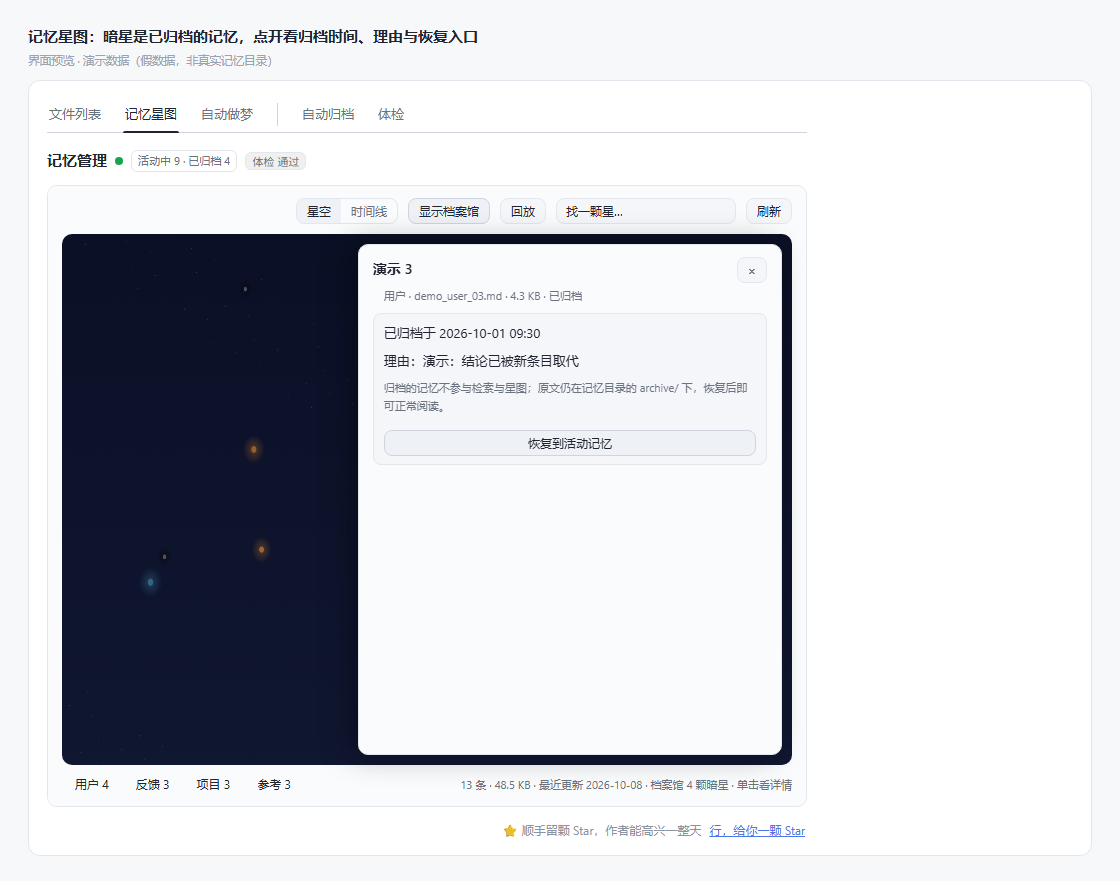
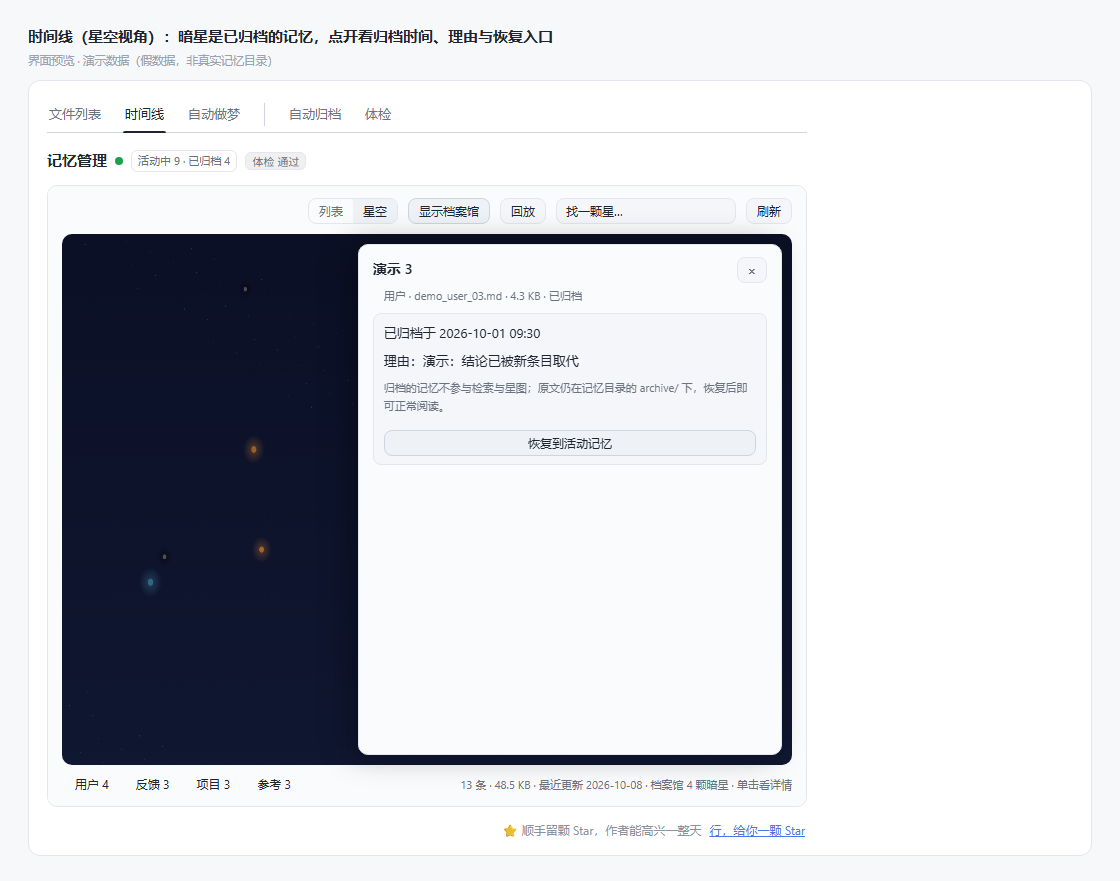
release: v2.4.1 —— 页签「记忆星图」改名「时间线」，点开先看见列表
- 页签「记忆星图」→「时间线」（中英同步：Star map → Timeline）。
- 默认视角改为列表（按更新时间倒序）；星空降为右上角可选视角。
- 内部视角按钮改「列表 | 星空」：页签已经叫「时间线」，里面再放一个同名按钮
  就成了「时间线 ▸ 时间线 | 星空」，读起来像 bug；「列表」也更准。
- 依赖画布的 5 组渲染用例各加一步「先点星空」。2.3.1 当时不敢改默认值，
  理由正是「8 条渲染断言失去前提」—— 正确解法是给它们一条切视角的入口，
  而不是让默认值迁就测试。默认视角是产品决定，依赖它的前提就该写出来。
- 三屏界面快照 files-list / audit 重生成：唯一变化是页签文字那一项。
- 展示图重出，并**新增一张「默认视角（列表）」**：README 主图现在是打开标签
  第一眼看到的那一屏，星空版退为「切过去之后」。拿星空版当默认界面展示，
  是拿一个要用户点一下才出现的东西冒充入口 —— 交付前差点就这样发出去。
  该屏在出图前先断言「没有画布且有条目列表」，图配不上说明就直接失败。
- 顺手脱敏：README 中英的私有机器代号、一份审查报告里的私人署名。

npm test: 4453 passed / 0 failed

diff --git a/lib/client.js b/lib/client.js
@@ -1128,10 +1128,12 @@ const StarmapRuntime = (function (require, _react) {
 			const busyS = react.useState(false);
 			const busy = busyS[0];
 			const setBusy = busyS[1];
-			// 2.3.1：默认仍是「星空」—— 它是这个功能的招牌视觉（README 封面图），
-			// 而且改成 timeline 会让 8 条「画布真的画出来了 / 点得中暗星」的渲染断言失去
-			// 前提（那些只在空间视角成立）。变的是**按钮顺序**：时间线在前。
-			const viewS = react.useState("sky");
+			// 2.4.1：默认视角是**时间线**。产品要求「点开这个标签先看见按时间排的条目」——
+			// 星空是这个功能的可选视角，不是入口。原先默认星空，理由是它更适合当招牌视觉；
+			// 但一个叫「时间线」的标签第一屏却是一张星图，等于让人先猜这里是什么。
+			// 代价：8 条「画布真的画出来了 / 点得中暗星」的渲染断言失去前提，
+			// 所以 client-render-test 里补了一条切视角的入口（先点「星空」再断言）。
+			const viewS = react.useState("timeline");
 			const viewMode = viewS[0];
 			const setViewMode = viewS[1];
 			const emptySkyS = react.useState(false);
@@ -1623,15 +1625,16 @@ const StarmapRuntime = (function (require, _react) {
 			}
 
 			return h("div", { className: "smap-card" },
-				// 卡片里不再重复「记忆星图 / sage-mem memory」这一行 —— 标题已经在面板顶部
+				// 卡片里不再重复标题那一行 —— 标签本身叫「时间线」，标题已经在面板顶部
 				// 那条共用头部带里（「我在哪」），这里只留控件，少一行噪音。
 				h("div", { className: "smap-head" },
 					h("span", { className: "smap-spacer" }),
-					// 2.3.1：时间线在前（默认视角），星空在后 —— 与默认值一致，别让人点开
-					// 一个高亮的按钮发现它不在第一位。
+					// 2.4.1：内部视角按钮叫「列表 | 星空」—— 标签已经叫「时间线」，
+					// 里面再放一个「时间线」按钮就成了「时间线 ▸ 时间线 | 星空」，读起来像 bug。
+					// 「列表」也更准：它就是按更新时间倒序的条目列表。
 					h("span", { className: "smap-viewtoggle" },
-						h("button", { className: "smap-vt-btn" + (viewMode === "timeline" ? " on" : ""), onClick: () => setViewMode("timeline"), title: "时间视角：最近更新在前" }, "时间线"),
-						h("button", { className: "smap-vt-btn" + (viewMode === "sky" ? " on" : ""), onClick: () => setViewMode("sky"), title: "空间视角：星座分布" }, "星空")),
+						h("button", { className: "smap-vt-btn" + (viewMode === "timeline" ? " on" : ""), onClick: () => setViewMode("timeline"), title: "列表视角：最近更新在前" }, "列表"),
+						h("button", { className: "smap-vt-btn" + (viewMode === "sky" ? " on" : ""), onClick: () => setViewMode("sky"), title: "星空视角：星座分布" }, "星空")),
 					// 档案馆开关：默认开。关掉只是本地不再画暗星，不重新取数。
 					// 只留文字，不挂数字（计数归脚注的「档案馆 N 颗暗星」）；开/关靠 on 态
 					// 与 aria-pressed 的样式差，别让人猜现在是开还是关。
@@ -3834,7 +3837,7 @@ h("span", { key: "sep", className: "smem-actions-sep", "aria-hidden": "true" }),
 			"sidebar.label": "记忆管理",
 
 			"tab.files": "文件列表",
-			"tab.star": "记忆星图",
+			"tab.star": "时间线",
 			"tab.autodream": "自动做梦",
 			"tab.archive": "自动归档",
 			"tab.audit": "体检",
@@ -4317,7 +4320,7 @@ h("span", { key: "sep", className: "smem-actions-sep", "aria-hidden": "true" }),
 			"sidebar.label": "Memory management",
 
 			"tab.files": "Files",
-			"tab.star": "Star map",
+			"tab.star": "Timeline",
 			"tab.autodream": "Autodream",
 			"tab.archive": "Auto-archive",
 			"tab.audit": "Audit",

diff --git a/client/13-starmap-panel.js b/client/13-starmap-panel.js
@@ -45,10 +45,12 @@
 			const busyS = react.useState(false);
 			const busy = busyS[0];
 			const setBusy = busyS[1];
-			// 2.3.1：默认仍是「星空」—— 它是这个功能的招牌视觉（README 封面图），
-			// 而且改成 timeline 会让 8 条「画布真的画出来了 / 点得中暗星」的渲染断言失去
-			// 前提（那些只在空间视角成立）。变的是**按钮顺序**：时间线在前。
-			const viewS = react.useState("sky");
+			// 2.4.1：默认视角是**时间线**。产品要求「点开这个标签先看见按时间排的条目」——
+			// 星空是这个功能的可选视角，不是入口。原先默认星空，理由是它更适合当招牌视觉；
+			// 但一个叫「时间线」的标签第一屏却是一张星图，等于让人先猜这里是什么。
+			// 代价：8 条「画布真的画出来了 / 点得中暗星」的渲染断言失去前提，
+			// 所以 client-render-test 里补了一条切视角的入口（先点「星空」再断言）。
+			const viewS = react.useState("timeline");
 			const viewMode = viewS[0];
 			const setViewMode = viewS[1];
 			const emptySkyS = react.useState(false);
@@ -540,15 +542,16 @@
 			}
 
 			return h("div", { className: "smap-card" },
-				// 卡片里不再重复「记忆星图 / sage-mem memory」这一行 —— 标题已经在面板顶部
+				// 卡片里不再重复标题那一行 —— 标签本身叫「时间线」，标题已经在面板顶部
 				// 那条共用头部带里（「我在哪」），这里只留控件，少一行噪音。
 				h("div", { className: "smap-head" },
 					h("span", { className: "smap-spacer" }),
-					// 2.3.1：时间线在前（默认视角），星空在后 —— 与默认值一致，别让人点开
-					// 一个高亮的按钮发现它不在第一位。
+					// 2.4.1：内部视角按钮叫「列表 | 星空」—— 标签已经叫「时间线」，
+					// 里面再放一个「时间线」按钮就成了「时间线 ▸ 时间线 | 星空」，读起来像 bug。
+					// 「列表」也更准：它就是按更新时间倒序的条目列表。
 					h("span", { className: "smap-viewtoggle" },
-						h("button", { className: "smap-vt-btn" + (viewMode === "timeline" ? " on" : ""), onClick: () => setViewMode("timeline"), title: "时间视角：最近更新在前" }, "时间线"),
-						h("button", { className: "smap-vt-btn" + (viewMode === "sky" ? " on" : ""), onClick: () => setViewMode("sky"), title: "空间视角：星座分布" }, "星空")),
+						h("button", { className: "smap-vt-btn" + (viewMode === "timeline" ? " on" : ""), onClick: () => setViewMode("timeline"), title: "列表视角：最近更新在前" }, "列表"),
+						h("button", { className: "smap-vt-btn" + (viewMode === "sky" ? " on" : ""), onClick: () => setViewMode("sky"), title: "星空视角：星座分布" }, "星空")),
 					// 档案馆开关：默认开。关掉只是本地不再画暗星，不重新取数。
 					// 只留文字，不挂数字（计数归脚注的「档案馆 N 颗暗星」）；开/关靠 on 态
 					// 与 aria-pressed 的样式差，别让人猜现在是开还是关。

diff --git a/client/55-i18n-memory.js b/client/55-i18n-memory.js
@@ -12,7 +12,7 @@
 			"sidebar.label": "记忆管理",
 
 			"tab.files": "文件列表",
-			"tab.star": "记忆星图",
+			"tab.star": "时间线",
 			"tab.autodream": "自动做梦",
 			"tab.archive": "自动归档",
 			"tab.audit": "体检",
@@ -495,7 +495,7 @@
 			"sidebar.label": "Memory management",
 
 			"tab.files": "Files",
-			"tab.star": "Star map",
+			"tab.star": "Timeline",
 			"tab.autodream": "Autodream",
 			"tab.archive": "Auto-archive",
 			"tab.audit": "Audit",

diff --git a/README.md b/README.md
@@ -12,7 +12,7 @@
 
 **Cross-session memory for DeepSeek Harness — plain markdown files, no database, no worker.**
 
-**Current release: `2.4.0`** — the npm badge above is the dynamic source of truth. **Contract baseline: `1.0.0`** — the first stable release, whose public commitments, the capability boundaries and the list of things it explicitly cannot do are frozen in the
+**Current release: `2.4.1`** — the npm badge above is the dynamic source of truth. **Contract baseline: `1.0.0`** — the first stable release, whose public commitments, the capability boundaries and the list of things it explicitly cannot do are frozen in the
 [frozen contract](https://github.com/gezi-wen/sage-mem/blob/main/docs/1.0.0-contract.md).
 
 If it is useful to you, a Star is the most direct feedback.
@@ -79,7 +79,7 @@ Most memory schemes take the "SQLite + a long-running worker" route: once memori
 | **Migration from Claude Code** | The persona (`CLAUDE.md` → `AGENTS.md`) is copied as-is; memories just need organizing into `.md` files under four types (see [the next section](#migrating-from-claude-code)) |
 | **Ships its own usage guide** | The package carries a skill (`skills/sage-mem/`): what a memory looks like, the four types, what not to store, the frontmatter pitfalls, how retrieval actually works, how to audit and fix a broken index. Installing the plugin is enough — the agent gets the instructions, no manual setup |
 
-The UI also carries four more capabilities (all of them optional): the memory management page, type and tag filtering, the memory star map, and audit & archiving.
+The UI also carries four more capabilities (all of them optional): the memory management page, type and tag filtering, the timeline (an entries list by default, with an optional star-map view), and audit & archiving.
 
 **Since 1.8.0, memory management is also reachable from the sidebar**: a 「记忆管理」(memory management) icon appears in the sidebar and switches the central panel to this page (with a "back to conversation" control at the top).
 It can be turned off in the settings page under 「记忆管理 → 自动做梦 → 设置」(on by default; applies immediately, no restart);
@@ -165,7 +165,7 @@ The state directory (configuration, ledger, rollback points, conflict queue) def
 
 Every image below is **rendered from the UI code in this repository** (the same CSS, the same component tree; the data is demo data for illustration, not a real memory directory).
 
-Since 1.9.0 the memory-management surface follows the harness language (**Settings → General → Language**); memory content itself stays in whatever language it was written in, 2.1.0 extends it to the **Autodream** (run / settings / records) and **Auto-archive** screens; the star map is the only panel still Chinese until the next i18n batch.
+Since 1.9.0 the memory-management surface follows the harness language (**Settings → General → Language**); memory content itself stays in whatever language it was written in, 2.1.0 extends it to the **Autodream** (run / settings / records) and **Auto-archive** screens; the timeline / star-map screen is the only panel still Chinese until the next i18n batch.
 
 ![File list: one Markdown file per memory, greyed rows are archived](https://raw.githubusercontent.com/gezi-wen/sage-mem/main/docs/images/files-list.png)
 
@@ -191,9 +191,13 @@ Since 1.9.0 the memory-management surface follows the harness language (**Settin
 
 *Archive candidates — each states "why archiving is suggested" (idle days vs the threshold for that type); files are touched only after you confirm one by one or select all. Archiving moves a file into `archive/`, it **does not delete**; to actually delete an archived entry, click 「彻底删除」(delete permanently) in the archive view and confirm once more.*
 
-![Memory star map: dark stars are archived memories](https://raw.githubusercontent.com/gezi-wen/sage-mem/main/docs/images/starmap-archive.png)
+![Timeline (default view): entries sorted newest-first](https://raw.githubusercontent.com/gezi-wen/sage-mem/main/docs/images/starmap-list.png)
 
-*Memory star map — colour maps to type, size to volume, brightness to freshness; dark stars are archived memories, and opening one shows the archive time and reason.*
+*Timeline — **this is what the tab opens on**: a list of entries sorted newest-first, most recently changed at the top. Want the picture? Switch to 「星空」(star map) in the top-right corner.*
+
+![Timeline · star-map view: dark stars are archived memories](https://raw.githubusercontent.com/gezi-wen/sage-mem/main/docs/images/starmap-archive.png)
+
+*After switching to the star-map view — colour maps to type, size to volume, brightness to freshness; dark stars are archived memories, and opening one shows the archive time and reason.*
 
 ![Autodream · settings](https://raw.githubusercontent.com/gezi-wen/sage-mem/main/docs/images/autodream-settings.png)
 
@@ -203,9 +207,9 @@ Since 1.9.0 the memory-management surface follows the harness language (**Settin
 
 *Auto-archive — it is not the same thing as autodream: archiving is a **deterministic rule** (computed from idle days in the access ledger, no model call), which is why it gets a page of its own. Thresholds take effect on save, no restart needed.*
 
-![Memory star map](https://raw.githubusercontent.com/gezi-wen/sage-mem/main/docs/starmap.png)
+![Timeline · star-map view](https://raw.githubusercontent.com/gezi-wen/sage-mem/main/docs/starmap.png)
 
-*Memory star map in full — the canvas draws only relations and distribution; the file name of a single memory appears only when you hover over or open that star. Rendering is redrawn on demand; no drawing is initiated while the view is static.*
+*The star-map view in full — the canvas draws only relations and distribution; the file name of a single memory appears only when you hover over or open that star. Rendering is redrawn on demand; no drawing is initiated while the view is static.*
 
 ## Memory File Format
 

diff --git a/README.zh.md b/README.zh.md
@@ -14,7 +14,7 @@
 
 > File-based cross-session memory for DeepSeek Harness — every memory is a plain markdown file you can open, edit and delete. No database, no worker, no port.
 
-**当前发布版本：`2.4.0`** —— 顶部 npm 徽章是动态权威。**契约基线：`1.0.0`** —— 第一个稳定版，公开承诺、能力边界与「明确做不到」的清单冻结在
+**当前发布版本：`2.4.1`** —— 顶部 npm 徽章是动态权威。**契约基线：`1.0.0`** —— 第一个稳定版，公开承诺、能力边界与「明确做不到」的清单冻结在
 [契约冻结](https://github.com/gezi-wen/sage-mem/blob/main/docs/1.0.0-contract.md)。
 
 如果它对你有用，给个 Star 是最直接的反馈。
@@ -81,7 +81,7 @@ sage-mem 补上这一层，做法是：**把该记住的事写成一张张卡片
 | **从 Claude Code 迁移** | 人格（`CLAUDE.md` → `AGENTS.md`）照搬；记忆按四类整理成 `.md` 即可（见[下一节](#从-claude-code-迁移)） |
 | **自带使用指南** | 包内携带一份技能（`skills/sage-mem/`）：记忆长什么样、四类怎么分、什么不该存、frontmatter 的坑、检索怎么工作、索引坏了怎么修。装上插件就够了 —— Agent 拿到说明书，不需要手工配置 |
 
-界面上还有四块能力（都可以不用）：记忆管理页、类型与标签筛选、记忆星图、体检与归档。
+界面上还有四块能力（都可以不用）：记忆管理页、类型与标签筛选、时间线（默认是条目列表，可切星空视角）、体检与归档。
 
 **1.8.0 起，记忆管理还能从侧栏直接进**：侧栏多一个「记忆管理」图标，点它把中央主区切到本页（页顶有「返回会话」）。
 设置页「记忆管理 → 自动做梦 → 设置」里可以关掉这个入口（默认开，立即生效、不用重启）；
@@ -165,7 +165,7 @@ SAGE_MEM_DIR=/path/to/your/memory
 
 下面每张图都是**从仓库里的界面代码渲染出来的**（同一份 CSS、同一棵组件树；数据是演示用的假数据，不是真实记忆目录）。
 
-1.9.0 起，记忆管理这一块跟随宿主语言（**设置 → 通用 → 语言**）；记忆内容本身保持它被写下时的语言，2.1.0 起扩展到**自动做梦**（运行 / 设置 / 记录）与**自动归档**两屏；只剩记忆星图仍是中文，等下一批 i18n。
+1.9.0 起，记忆管理这一块跟随宿主语言（**设置 → 通用 → 语言**）；记忆内容本身保持它被写下时的语言，2.1.0 起扩展到**自动做梦**（运行 / 设置 / 记录）与**自动归档**两屏；只剩时间线/星图那一屏仍是中文，等下一批 i18n。
 
 ![文件列表：每条记忆一个 Markdown 文件，灰底的是已归档](https://raw.githubusercontent.com/gezi-wen/sage-mem/main/docs/images/files-list.png)
 
@@ -191,9 +191,13 @@ SAGE_MEM_DIR=/path/to/your/memory
 
 *归档候选 —— 每条写清「为什么建议归档」（闲置天数 vs 该类型阈值），逐条或全选后确认才动文件。归档是把文件移进 `archive/`，**不删除**；真要删掉一条归档件，得在档案馆里单独点「彻底删除」并再确认一次。*
 
-![记忆星图：暗星是已归档的记忆](https://raw.githubusercontent.com/gezi-wen/sage-mem/main/docs/images/starmap-archive.png)
+![时间线（默认视角）：按更新时间倒序的条目列表](https://raw.githubusercontent.com/gezi-wen/sage-mem/main/docs/images/starmap-list.png)
 
-*记忆星图 —— 颜色对应类型、大小对应体积、亮度对应新鲜度；暗星是已归档的记忆，点开可看归档时间与理由。*
+*时间线 —— **打开这个标签先看见的就是这一屏**：按更新时间倒序的条目列表，最近改过的在最上面。想看图，右上角「星空」自己切。*
+
+![时间线 · 星空视角：暗星是已归档的记忆](https://raw.githubusercontent.com/gezi-wen/sage-mem/main/docs/images/starmap-archive.png)
+
+*切到「星空」之后 —— 颜色对应类型、大小对应体积、亮度对应新鲜度，暗星是已归档的记忆，点开可看归档时间与理由。*
 
 ![自动做梦 · 设置](https://raw.githubusercontent.com/gezi-wen/sage-mem/main/docs/images/autodream-settings.png)
 
@@ -203,9 +207,9 @@ SAGE_MEM_DIR=/path/to/your/memory
 
 *自动归档 —— 它和自动做梦不是一件事：归档是**确定性规则**（按访问台账的闲置天数算，不调模型），所以单独一页。阈值保存即生效，不用重启。*
 
-![记忆星图](https://raw.githubusercontent.com/gezi-wen/sage-mem/main/docs/starmap.png)
+![时间线 · 星空视角](https://raw.githubusercontent.com/gezi-wen/sage-mem/main/docs/starmap.png)
 
-*记忆星图全貌 —— 画布上只画关系与分布；悬停或点开某颗星时才显示那一条的文件名。渲染是按需重绘，画面静止时不发起任何绘制。*
+*「星空」视角全貌 —— 画布上只画关系与分布；悬停或点开某颗星时才显示那一条的文件名。渲染是按需重绘，画面静止时不发起任何绘制。*
 
 ## 记忆文件格式
 

diff --git a/CHANGELOG.md b/CHANGELOG.md
@@ -7,6 +7,40 @@
 
 ---
 
+## 2.4.1
+
+**主题：导航改名 —— 「记忆星图」页签叫「时间线」，点开先看见按时间排的条目。**
+
+版本判定：2.4.1（PATCH）｜理由：只有界面导航与默认视角变化；数据、协议、remote 方法集、宿主侧逻辑全部不变｜运行时源文件 2（`client/55-i18n-memory.js`、`client/13-starmap-panel.js`）+ 产物重建 + 3 屏界面快照重生成（2 屏哈希变，原因见下）｜PATCH 一版一件事：「名字与入口对上」
+
+### 行为变更
+
+- **页签「记忆星图」→「时间线」**（中英同步：`Star map` → `Timeline`）。
+- **点开这个页签先看见列表**（按更新时间倒序的条目），不再是星空画布。
+- **内部视角按钮改为「列表 | 星空」**：页签已经叫「时间线」，里面再放一个同名按钮就成了「时间线 ▸ 时间线 | 星空」，读起来像 bug；「列表」也更准 —— 它本来就是按更新时间排的条目列表。
+- 星空视角、回放、暗星、显示档案馆开关、点击看详情全部照旧，只是入口从「默认」变成「右上角一键」。
+
+### 不变
+
+- wire 协议、typert 契约、remote 方法集、宿主侧行为全部不变（这一版没碰 `lib/` 下任何运行时逻辑，只有 `lib/client.js` 这个构建产物）。
+- **三屏界面快照：`files-list` 与 `audit` 两屏哈希变了**，原因只有一个词 —— 页签文字（`记忆星图` → `时间线`）；`autodream-settings` 屏不含页签栏，哈希不变。这是**有意改界面**，已用 `--update` 重生成。
+- 9 张 README / 市场展示图重出（页签栏出现在每一张里）。
+
+### 新增测试
+
+- `client-render-test` 465 → **469**：新增「默认是列表视角（没有画布）」、「列表 / 星空双向切换」、「内部按钮不复用「时间线」这个名字」、「页签里不再出现「记忆星图」」四条。
+- **依赖画布的 5 组用例各加了一步「先点星空」**（group 5 / 7 / 7b / 13e 与预览出图）。这不是给测试开后门 —— 默认视角是产品决定，依赖它的前提就该在用例里写出来；靠「以前恰好默认是星空」的用例，改一次默认值会连片静默失败。
+- `review-211-q15-test` 28 → **29**（+1：卡片上必须有「星空」按钮 —— 默认视角变了也不能把这个入口弄丢）。
+- `npm test` 断言数 4442 → **4447**。
+
+### 实测
+
+- `npm test`：**4447 passed / 0 failed**。
+- `client-render-test` 469/0；界面快照守卫 6/0。
+- 离线评测：退出码 0，判定「无退化」。
+
+---
+
 ## 2.4.0
 
 **主题：整理声明逐条列出「被删掉的事实」—— 结构审计看不见的那类损失，现在有人看得见。**
@@ -919,7 +953,7 @@
 ### 实测
 
 - **DSH Go 1.0.2 / DSH 0.2.1-rc.4（Android 12 手机）**：市场安装 sage-mem 后，设置分区与侧栏面板正常；补上兜底色后主按钮文字可见（实机走查）。
-- **0.2.1-rc.5（灰云月殿，systemd）**：升级后 dump-config、启动、面板走查通过。
+- **0.2.1-rc.5（本地 web 实例，systemd）**：升级后 dump-config、启动、面板走查通过。
 - 兼容表声明口径与 2.0.0 相同：`compatible` = 契约层核对过，不等于每个构建都跑过端到端探针。
 
 ---

diff --git a/.release-notes.md b/.release-notes.md
@@ -1,23 +1,23 @@
-整理声明逐条列出「被删掉的事实」—— 结构审计看不见的那类损失，现在有人看得见。
+导航改名 —— 「记忆星图」页签叫「时间线」，点开先看见按时间排的条目。
 
 ## 行为变更
 
-- 自动做梦的整理声明多一节「**被删掉的事实**」：每个改写（`update`）与归档（`archive`）都逐条列出**不再存在于活动记忆里的原文**，带原文行号；改写还写明「事实行 58 → 51 · 删掉 2 条」。
-- **自动归档策略收走的文件同样逐条列** —— 那条路径无人值守，正是「丢了东西没人看见」最容易发生的地方。
-- 没有删除事实的运行不出这一节（不伪造空节）；老运行记录照常渲染。
-- 由来：2026-11-05 那趟整理把一条仍然生效的「**到期 2027-10-03、不自动续费**」压掉了，跑完自报「审计 2 问题 → 0 问题」全绿。结构审计能看见断链、格式、索引，**看不见事实**。
+- 页签「记忆星图」→「**时间线**」（中英同步：`Star map` → `Timeline`）。
+- **点开这个页签先看见列表**（按更新时间倒序的条目），不再是星空画布。
+- 内部视角按钮改为「**列表 | 星空**」：页签已经叫「时间线」，里面再放一个同名按钮就成了「时间线 ▸ 时间线 | 星空」，读起来像 bug；「列表」也更准。
+- 星空视角、回放、暗星、显示档案馆开关、点击看详情全部照旧，只是入口从「默认」变成「右上角一键」。
 
 ## 不变
 
-wire 协议、typert 契约、remote 方法集、面板界面全部不变；模型可调用的工具参数一个没动 —— 事实由宿主拿「写之前的正文」与「写进去的新正文」对比算出，**不靠模型自述**。`manifest.json` 只增了几个可选字段。
+wire 协议、typert 契约、remote 方法集、宿主侧逻辑全部不变（只有 `lib/client.js` 这个构建产物跟着重建）。三屏界面快照里 `files-list` 与 `audit` 两屏哈希变了，原因只有一个词 —— 页签文字；`autodream-settings` 屏不含页签栏，哈希不变。
 
 ## 新增测试
 
-`autodream-facts-test.mjs`（48 条）：把 11-05 那次事故本身做成夹具，覆盖归一化 / 三条降噪规则 / 归档事实 / 预算 / 声明端到端 / 真实工具链路。
+`client-render-test` 465 → 469（默认是列表、列表/星空双向切换、内部按钮不复用「时间线」这个名字、页签里不再出现「记忆星图」）；依赖画布的 5 组用例各加一步「先点星空」。`review-211-q15-test` 28 → 29。
 
-`npm test` 4386 → **4434 passed / 0 failed**。
+`npm test` 4442 → **4447 passed / 0 failed**。
 
 ## 实测
 
-- `npm test`：4434 passed / 0 failed；`structure-test` 24/0（`tools.js` 1113 → 1071 行，没有把体积护栏改松）。
-- 离线评测：退出码 0，判定「无退化」。
+- `npm test`：4447 passed / 0 failed；`client-render-test` 469/0；界面快照守卫 6/0。
+- 9 张展示图重出；离线评测退出码 0，判定「无退化」。

diff --git a/docs/review-2026-10-31-response.md b/docs/review-2026-10-31-response.md
@@ -1,7 +1,7 @@
 # 外部审查（2026-10-31，基于 2.1.1 / `62b5f75`）响应
 
 > 审查报告：`sage-mem-v2.1.1-review-2026-10-31.md`（20 项未关闭：7×P1 + 13×P2）
-> 处置方式（文歌子 2026-10-31 定）：**一项一版** —— 每个问题一个独立 patch 版本（2.1.2 → 2.1.21），
+> 处置方式（2026-10-31 定）：**一项一版** —— 每个问题一个独立 patch 版本（2.1.2 → 2.1.21），
 > 每版含「失败回归测试 + 修复 + 正常路径反向对照」，可独立回退、独立解释。
 > 版本 → 问题映射与集成顺序见 `plans/sage-mem-2.1.2-2.1.21-审查响应表.md`。
 >
